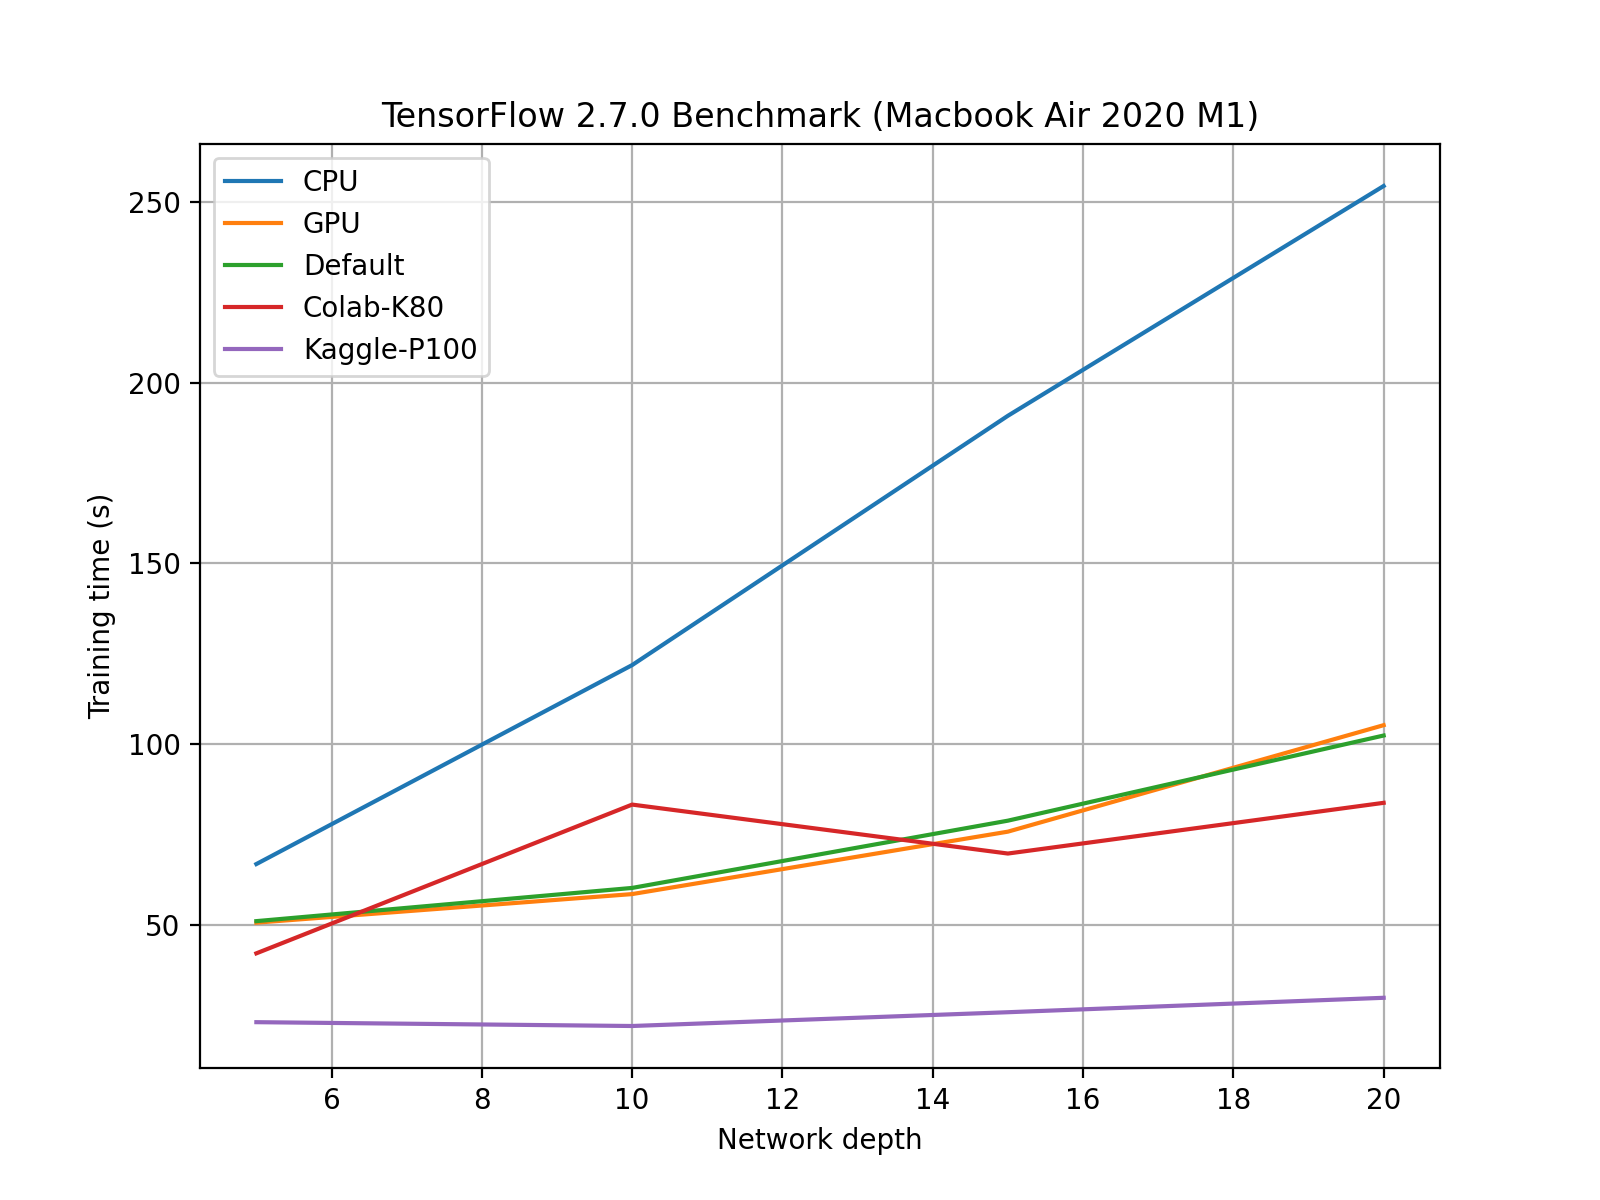
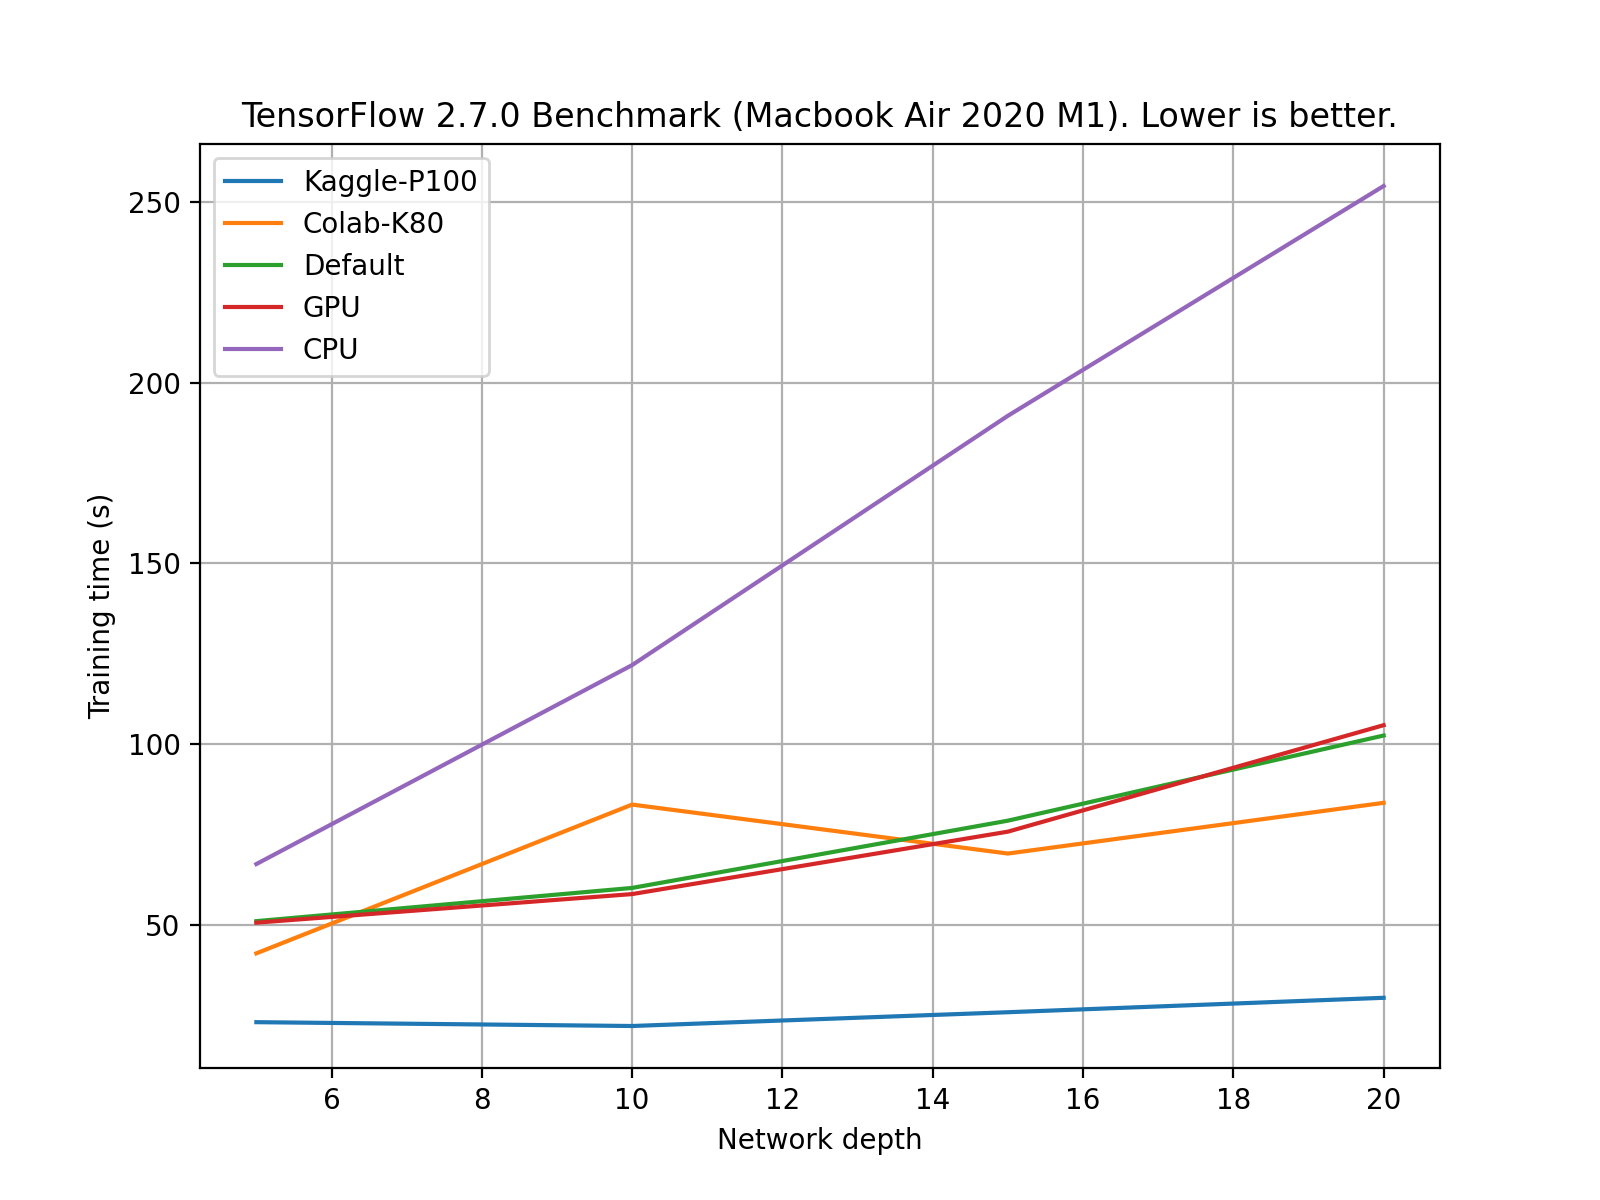
Modify title of plot. Add lower is better

diff --git a/plot_results.py b/plot_results.py
@@ -8,7 +8,7 @@ for filename in glob.glob('results*.csv'):
     dfs.append(pd.read_csv(filename, index_col=0))
 
 result_all = pd.concat(dfs)
-result_all = result_all.sort_values("20", ascending=False)
+result_all = result_all.sort_values("20", ascending=True)
 fig, ax = plt.subplots(1, 1, figsize=(8, 6), dpi=200)
 for key in result_all.index:
     ax.plot([5, 10, 15, 20], result_all.loc[key].values, label=key)
@@ -17,5 +17,5 @@ plt.legend()
 plt.grid()
 plt.xlabel("Network depth")
 plt.ylabel("Training time (s)")
-plt.title(f"TensorFlow {tf.__version__} Benchmark (Macbook Air 2020 M1)")
+plt.title(f"TensorFlow {tf.__version__} Benchmark (Macbook Air 2020 M1). Lower is better.")
 plt.savefig("results_plot.png")
